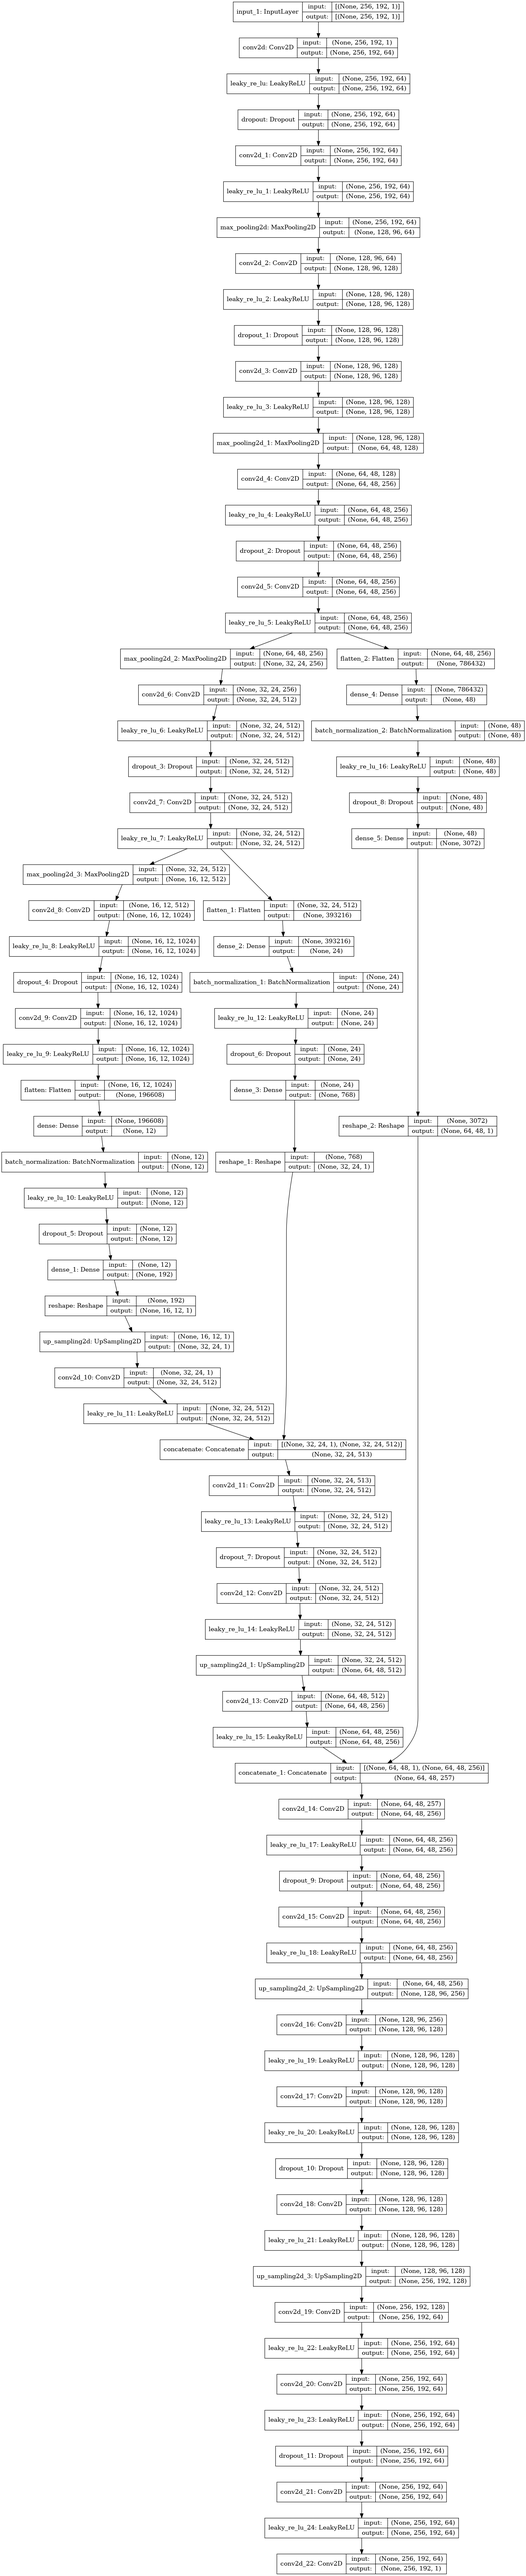
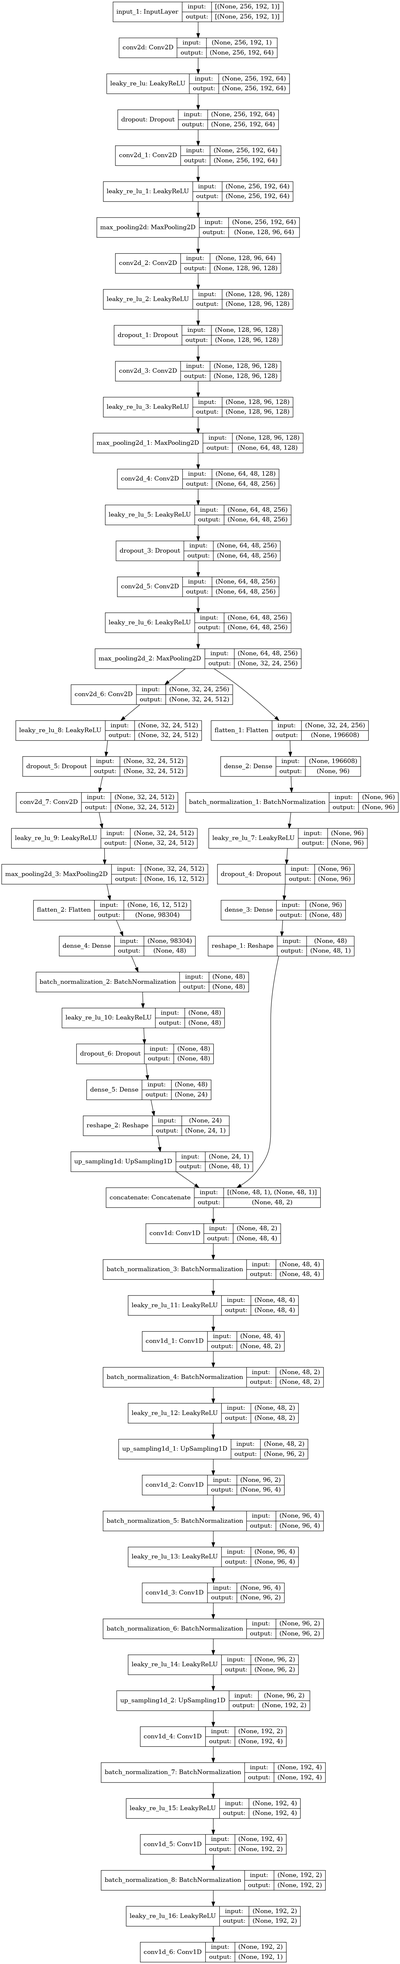
sync

Changed region(s): [[0.0, 0.0, 0.9546, 0.9998]]

diff --git a/PACT_Dual_SoS_Segmentation/train.py b/PACT_Dual_SoS_Segmentation/train.py
@@ -8,9 +8,9 @@ import data_io
 import os
 
 # Basic configuration
-bs = 16
-saved_model = './saved_model/unet_with_dense'
-best_checkpoint = './saved_model/unet_with_dense_best'
+bs = 8
+saved_model = './saved_model/cnn_dense'
+best_checkpoint = './saved_model/cnn_dense_best'
 figure_path = './figure/'
 
 if not os.path.exists(saved_model):
@@ -22,8 +22,8 @@ if not os.path.exists(figure_path):
 
 # import data
 
-trainset_loader = data_io.ImageDataGenerator(batch_size=bs)
-validset_loader = data_io.ImageDataGenerator(batch_size=bs, mode='valid')
+trainset_loader = data_io.ImageDataGenerator2(batch_size=bs)
+validset_loader = data_io.ImageDataGenerator2(batch_size=bs, mode='valid')
 
 # Training network
 
@@ -33,7 +33,7 @@ model = network.cnn_dense(img_shape=(256, 192, 1))
 plot_model(model, show_shapes=True)
 model.summary()
 model.compile(loss=MeanSquaredError(),
-              optimizer=optim.Adam(learning_rate=0.0001))
+              optimizer=optim.Adam(learning_rate=0.001))
 
 reduce_lr = ReduceLROnPlateau(
     verbose=1, factor=0.1, min_delta=0.001, monitor='val_loss', patience=10,
@@ -46,9 +46,9 @@ checkpoint = ModelCheckpoint(filepath=best_checkpoint,
                              mode='auto',
                              period=1)
 
-history = model.fit(trainset_loader, batch_size=bs, epochs=200,
+history = model.fit(trainset_loader, batch_size=bs, epochs=400,
                     validation_data=validset_loader, workers=16, max_queue_size=16,
-                    callbacks=[reduce_lr, stop_condition, checkpoint])
+                    callbacks=[reduce_lr, stop_condition])
 
 # Save model and training log
 model.save(saved_model)
@@ -59,4 +59,4 @@ plt.title('Model loss')
 plt.ylabel('Loss')
 plt.xlabel('Epoch')
 plt.legend(['Train', 'Test'], loc='upper left')
-plt.savefig(figure_path + '/UNet - Model loss.jpg')
+plt.savefig(figure_path + '/cnn_dense - Model loss.jpg')

diff --git a/PACT_Dual_SoS_Segmentation/network.py b/PACT_Dual_SoS_Segmentation/network.py
@@ -183,9 +183,9 @@ def cnn_dense(img_shape=(256, 192, 1),
     concat3 = LeakyReLU()(concat3)
 
     up_dense3 = UpSampling1D(size=2)(concat3)
-    concat2 = Concatenate(axis=2)([up_dense3, dense2])
+    # concat2 = Concatenate(axis=2)([up_dense3, dense2])
     concat2 = Conv1D(4, 3, padding=padding,
-                     kernel_initializer=initializers.HeNormal())(concat2)
+                     kernel_initializer=initializers.HeNormal())(up_dense3)
     concat2 = BatchNormalization()(concat2)
     concat2 = LeakyReLU()(concat2)
     concat2 = Conv1D(2, 3, padding=padding,
